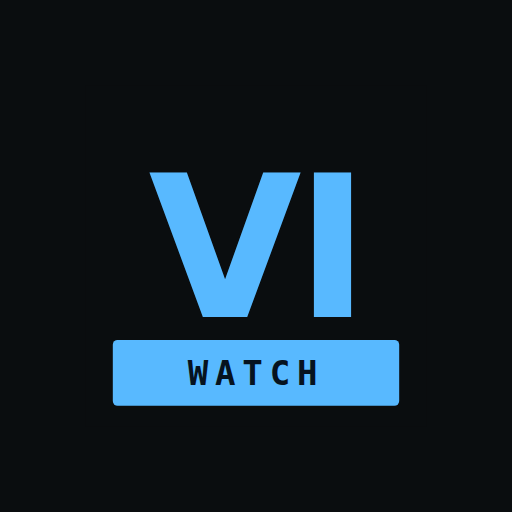
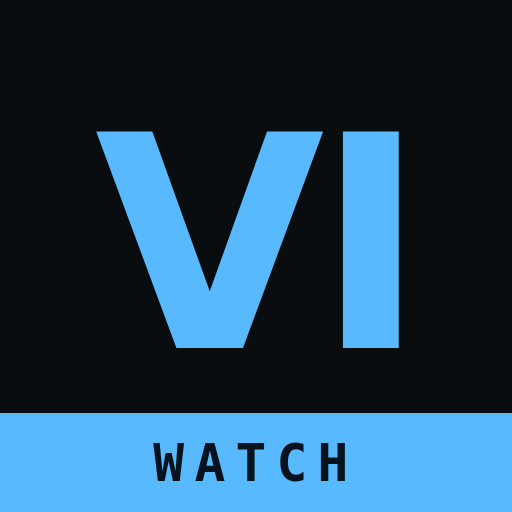
Icône : le bandeau à bord perdu sur les quatre fichiers
Le bandeau était rentré et arrondi sur les deux variantes maskable, par
prudence. Vu à l'écran sur les trois découpes d'Android — cercle,
squircle, carré arrondi — le bandeau pleine largeur tient mieux : le
découpage l'effile aux extrémités au lieu de le trancher, et « WATCH »
y reste entièrement lisible. Les quatre fichiers sont maintenant
identiques deux à deux.

Le compromis est réel et mesuré. Android garantit le disque central de
80 % du côté (rayon 40 %), mais le masque circulaire réellement appliqué
a un rayon de 50 %. Le texte du bandeau va jusqu'à 91,3 px du centre :
il tient dans le masque réel (96 px, 4,7 px de marge) et dépasse la
garantie (76,8 px).

Ce n'est pas rattrapable : le bandeau étant en bas, la zone sûre n'y
mesure plus qu'une vingtaine de pixels de large. Un bandeau à bord perdu
et un texte dans la zone sûre sont géométriquement incompatibles.

Le test n'est donc pas supprimé mais reformulé sur l'invariant réel : le
VI doit tenir dans la zone sûre conservatrice, le texte du bandeau doit
tenir dans le masque circulaire avec une marge. Son message dit mot pour
mot que c'est plus faible que la garantie d'Android — le compromis est
encodé, pas masqué.

981/981 vérifications passées.

Claude-Session: https://claude.ai/code/session_01DqaCi1a9z33GCLfRvxZycB

diff --git a/test_pipeline.py b/test_pipeline.py
@@ -4622,15 +4622,25 @@ def test_icones_de_lapp():
         check((largeur, hauteur) == (attendu, attendu),
               "%s fait bien %dx%d" % (entree["src"], attendu, attendu))
 
-    # Le vrai piège des icônes maskable. Android les recadre en cercle, en
-    # squircle ou en carré arrondi selon le lanceur, et ne garantit que le
-    # disque central de 80 % du côté — soit un rayon de 40 %. Tout ce qui
-    # dépasse peut être rogné.
+    # Les icônes maskable et le compromis assumé du bandeau.
     #
-    # La première version de cette icône plaçait son contenu jusqu'à 87,7 px
-    # du centre pour 76,8 px de zone sûre : ça survivait aux masques courants
-    # (vérifié à l'écran sur les trois formes) mais violait la garantie. Le
-    # contenu a été réduit jusqu'à rentrer.
+    # Android recadre ces icônes en cercle, squircle ou carré arrondi selon
+    # le lanceur. Il garantit le disque central de 80 % du côté (rayon 40 %),
+    # mais le masque circulaire réellement appliqué a un rayon de 50 % —
+    # bien plus large que la garantie.
+    #
+    # Le bandeau « WATCH » va d'un bord à l'autre : c'est ce qui fait l'allure
+    # de cette icône, et c'est un choix. Conséquence géométrique inévitable :
+    # le bandeau étant en bas, la zone sûre n'y mesure plus qu'une vingtaine
+    # de pixels de large. Un bandeau à bord perdu et un texte tenant dans la
+    # zone sûre sont donc INCOMPATIBLES — il faut choisir, et le bandeau a
+    # été choisi après avoir vu les trois découpes à l'écran.
+    #
+    # Ce que le test verrouille, du coup :
+    #   - le VI, lui, tient dans la zone sûre conservatrice ;
+    #   - le texte du bandeau tient dans le masque circulaire réel, avec
+    #     une marge. C'est plus faible que la garantie d'Android, et c'est
+    #     documenté comme tel — pas subi.
     for entree in manifeste["icons"]:
         if entree.get("purpose") != "maskable":
             continue
@@ -4639,25 +4649,45 @@ def test_icones_de_lapp():
             continue
         largeur, hauteur, bpp, lignes = _pixels_png(chemin)
         fond = lignes[0][0:3]
-        # Tolérance : l'anticrénelage et la compression décalent le fond
-        # d'une unité ou deux, ce n'est pas du contenu.
-        def est_du_contenu(p):
-            return max(abs(p[0] - fond[0]), abs(p[1] - fond[1]),
-                       abs(p[2] - fond[2])) > 12
+        BLEU = (88, 185, 255)   # --accent, la couleur du bandeau
+
+        def proche(p, q, tolerance=20):
+            return max(abs(p[0] - q[0]), abs(p[1] - q[1]),
+                       abs(p[2] - q[2])) <= tolerance
+
+        # Les lignes du bandeau : celles majoritairement bleues.
+        premiere = hauteur
+        for y in range(hauteur):
+            bleus = sum(1 for x in range(largeur)
+                        if proche(lignes[y][x * bpp:x * bpp + 3], BLEU))
+            if bleus > largeur * 0.5:
+                premiere = y
+                break
+
         centre = largeur / 2
-        rayon_max = 0.0
+        rayon_vi = 0.0
+        rayon_texte = 0.0
         for y in range(hauteur):
             ligne = lignes[y]
             for x in range(largeur):
-                if not est_du_contenu(ligne[x * bpp:x * bpp + 3]):
+                p = ligne[x * bpp:x * bpp + 3]
+                if proche(p, fond, 12):
                     continue
-                r = math.hypot(x - centre, y - centre)
-                if r > rayon_max:
-                    rayon_max = r
-        sure = largeur * 0.40
-        check(rayon_max <= sure + 1.5,
-              "%s : contenu jusqu'à %.1f px du centre, zone sûre %.1f px"
-              % (entree["src"], rayon_max, sure))
+                d = math.hypot(x - centre, y - centre)
+                if y < premiere:
+                    rayon_vi = max(rayon_vi, d)          # le VI
+                elif not proche(p, BLEU, 40):
+                    rayon_texte = max(rayon_texte, d)    # l'encre de WATCH
+
+        sure = largeur * 0.40          # la garantie d'Android
+        masque = largeur * 0.50        # le masque circulaire réellement appliqué
+        check(rayon_vi <= sure + 1.5,
+              "%s : le VI tient dans la zone sûre (%.1f px pour %.1f)"
+              % (entree["src"], rayon_vi, sure))
+        check(rayon_texte <= masque - largeur * 0.01,
+              "%s : le texte du bandeau tient dans le masque circulaire "
+              "(%.1f px pour %.1f) — hors zone sûre, compromis assumé"
+              % (entree["src"], rayon_texte, masque))
 
     # Les icônes d'app doivent rester OPAQUES : une maskable transparente
     # laisserait voir le fond du lanceur à travers. C'est l'inverse exact de

diff --git a/README.md b/README.md
@@ -492,7 +492,7 @@ le robot venait à pousser avec un autre jeton.
 
 `test_pipeline.py` n'a besoin ni de réseau ni de dépendance : la
 récupération est injectable (paramètre `collecte` de `fetch_all_feeds`), ce
-qui permet de tester tout le pipeline sans sortir de la machine. **979
+qui permet de tester tout le pipeline sans sortir de la machine. **981
 vérifications** couvrant les dates (les trois formats présents dans
 l'historique), le tri, le plafonnement, la repasse rétroactive, le
 nettoyage des liens, le cache de décodage, la validation du champ VAPID
@@ -1337,26 +1337,40 @@ cosmétique — Android recadre les maskable en cercle, en squircle ou en carré
 arrondi selon le lanceur, et ne garantit que le **disque central de 80 % du
 côté**. Tout ce qui dépasse peut être rogné.
 
-**Le bandeau à bord perdu était justement le point faible de cette piste.**
-Sur la variante « any » il va d'un bord à l'autre, ce qui fait son allure. Sur
-la maskable, un découpage circulaire l'aurait réduit à un croissant. Il y
-devient donc un bandeau arrondi, rentré dans la zone sûre — l'effet bord à
-bord est perdu là, et conservé partout ailleurs.
+**Le bandeau à bord perdu, et le compromis qu'il impose.** Il y a eu deux
+tentatives avant celle-ci, et la mesure a démenti l'intuition les deux fois.
 
-**Mesuré, et corrigé après mesure.** La première génération plaçait le
-contenu jusqu'à **87,7 px** du centre pour **76,8 px** de zone sûre. Ça
-survivait aux trois masques courants — le masque circulaire réel a un rayon
-de 96 px, vérifié à l'écran — mais violait la garantie d'Android. Le contenu
-a été réduit jusqu'à **77,1 px**, soit la zone sûre à 0,3 px près, un bord
-d'anticrénelage.
+*Premier essai* : bandeau arrondi et rentré dans la zone sûre sur les seules
+maskable, pour ne rien risquer. Le contenu tombait alors à 77,1 px du centre
+pour 76,8 de zone sûre — strictement conforme, mais plus timide.
 
-**Quatorze vérifications** : chaque icône déclarée dans le manifeste existe et
-a la taille annoncée ; les deux maskable tiennent dans leur zone sûre (le test
-décode le PNG et mesure le rayon du contenu réel, en tolérant l'anticrénelage) ;
-et les quatre sont **opaques**. Cette dernière est l'exacte réciproque du test
+*Retenu, après avoir vu les trois découpes à l'écran* : le bandeau va d'un
+bord à l'autre sur **les quatre fichiers**, qui sont donc identiques deux à
+deux. Le découpage circulaire l'effile aux extrémités au lieu de le trancher,
+et « WATCH » y reste entièrement lisible.
+
+**Ce que ça coûte, chiffré.** Android garantit le disque central de 80 % du
+côté (rayon 40 %), mais le masque circulaire réellement appliqué a un rayon
+de 50 % — bien plus large que la garantie. Le texte du bandeau va jusqu'à
+**91,3 px** du centre : il tient dans le masque réel (96 px, 4,7 px de marge)
+mais dépasse la garantie (76,8 px).
+
+Et ce n'est **pas rattrapable** : le bandeau étant en bas, la zone sûre n'y
+mesure plus qu'une vingtaine de pixels de large. Un bandeau à bord perdu et un
+texte tenant dans la zone sûre sont géométriquement incompatibles. Il fallait
+choisir ; le bandeau a été choisi en connaissance de cause.
+
+**Seize vérifications**, et elles encodent ce compromis plutôt que de le
+masquer : chaque icône déclarée existe et a la taille annoncée ; **le VI tient
+dans la zone sûre conservatrice** ; **le texte du bandeau tient dans le masque
+circulaire réel**, avec une marge — c'est plus faible que la garantie
+d'Android, et le message du test le dit mot pour mot.
+
+Les quatre sont enfin vérifiées **opaques**. C'est l'exacte réciproque du test
 du badge, qui lui exige de la transparence : une icône d'app transparente
 laisserait voir le fond du lanceur, un badge opaque redonne un carré blanc.
 Les confondre est facile, d'où deux tests qui se contredisent volontairement.
+
 
 ### Le carré blanc dans la barre d'état
 
